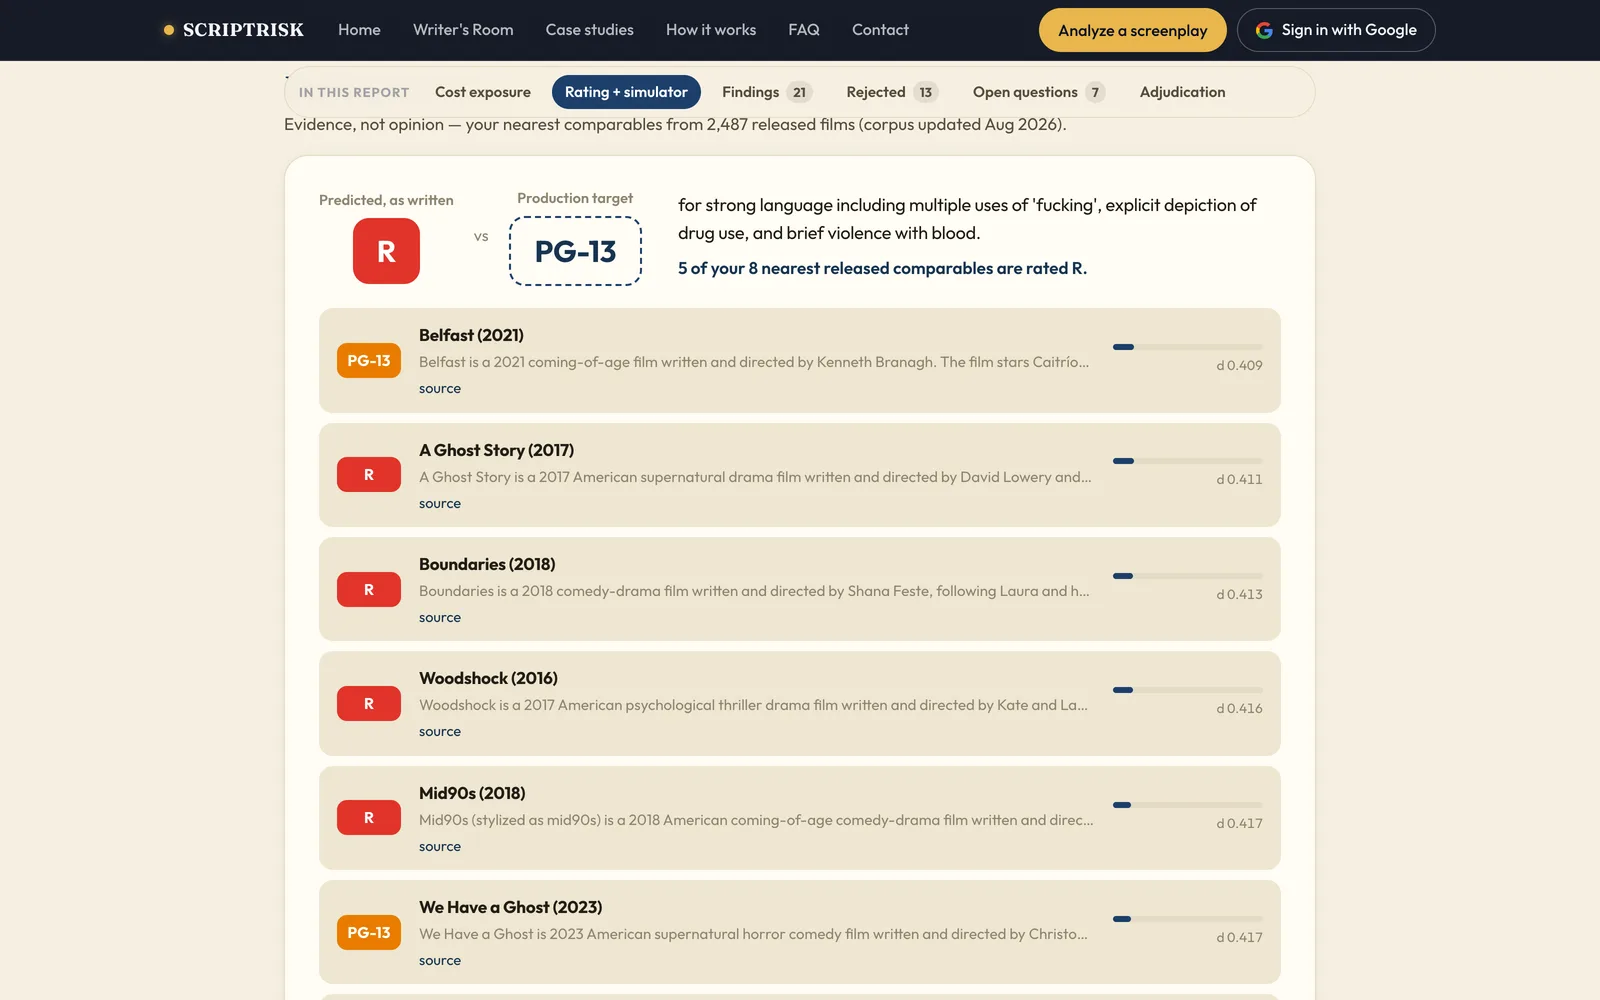
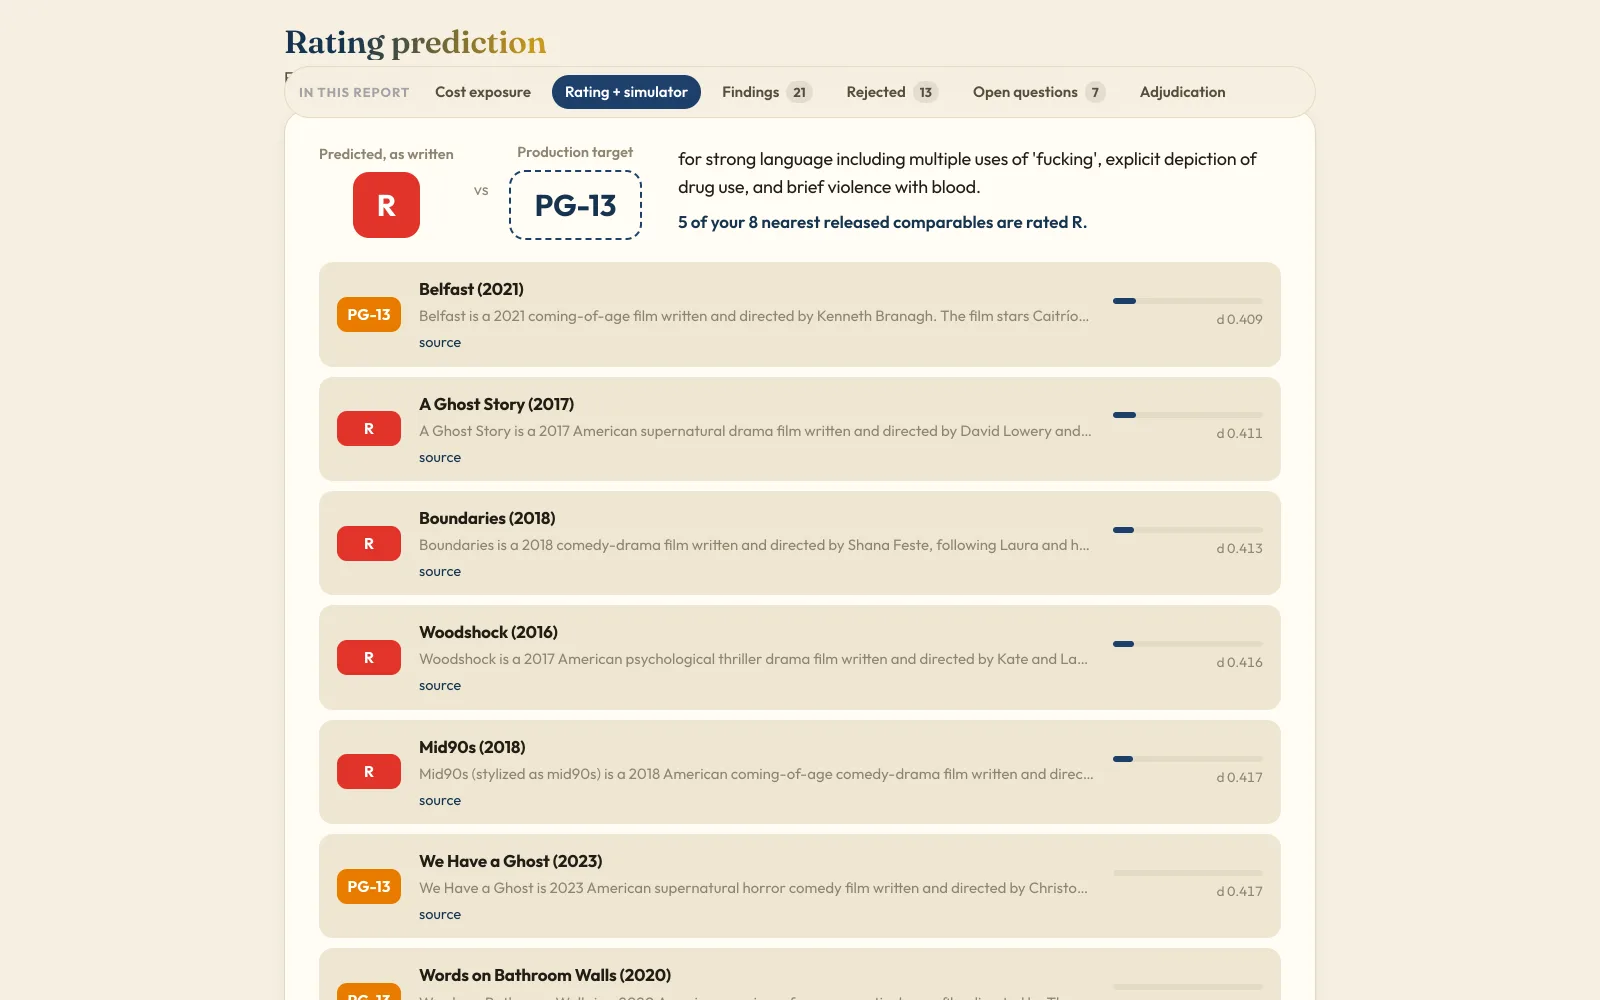
Carousel slides: capture without site chrome — no more page-in-a-page
The six showcase slides re-shot with header/footer stripped from the DOM, so
the homepage bezel frames pure product content instead of a nested copy of the
site nav. Rating slide re-anchored to #sec-rating (the h2 heuristic silently
failed to scroll). Reject caption no longer names a flag id the shot may not
show.

Claude-Session: https://claude.ai/code/session_01EnQ25PneMiTJ5kah1gP4yv

Changed region(s): [[0.1875, 0.124, 0.8125, 1.0], [0.0, 0.0, 1.0, 0.062]]

diff --git a/web/static/home.js b/web/static/home.js
@@ -99,7 +99,7 @@ document.addEventListener("DOMContentLoaded", () => {
 
 /* ---------- showcase carousel ---------- */
 const SLIDES = [
-  ["reject", "<b>The cross-examination.</b> A blinded verifier challenges every finding — here it REJECTS F201, whose source didn't support the claim. Rejected flags never reach the report."],
+  ["reject", "<b>The cross-examination.</b> A blinded verifier challenges every finding — the REJECTED verdict here is a flag whose source didn't support the claim. Rejected flags never reach the report."],
   ["report", "<b>The verdict, with the money.</b> Not cleared — 2 blockers, 21 findings, $104,500–$413,500 of estimated clearance exposure, priced finding by finding."],
   ["read", "<b>The analysis, live on your script.</b> Four desks read concurrently; findings pin to their scenes the moment they're filed."],
   ["citation", "<b>Receipts, not opinions.</b> Every finding quotes its sources verbatim — a flag without a citation is structurally impossible."],
